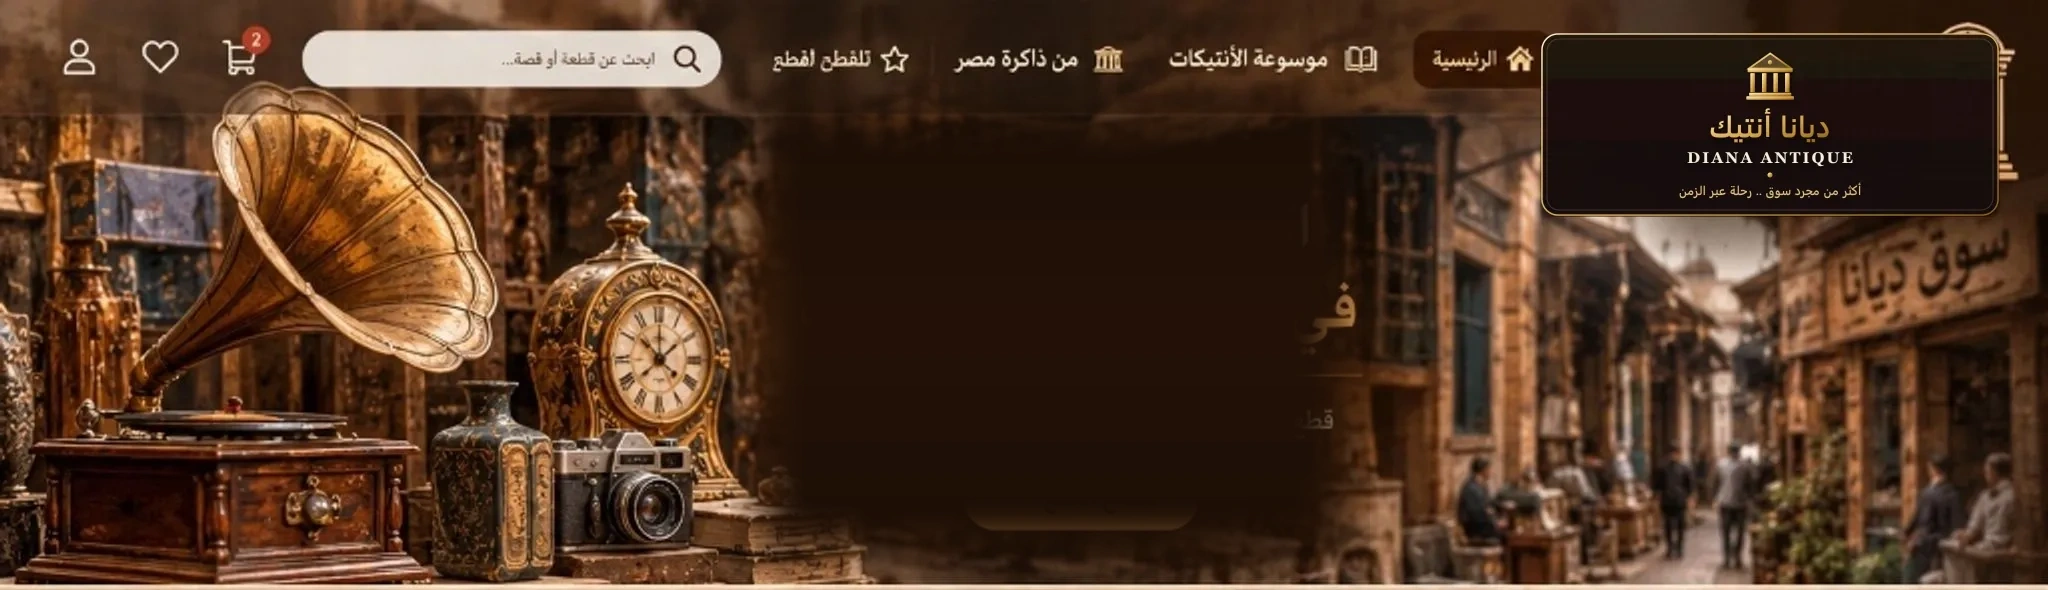
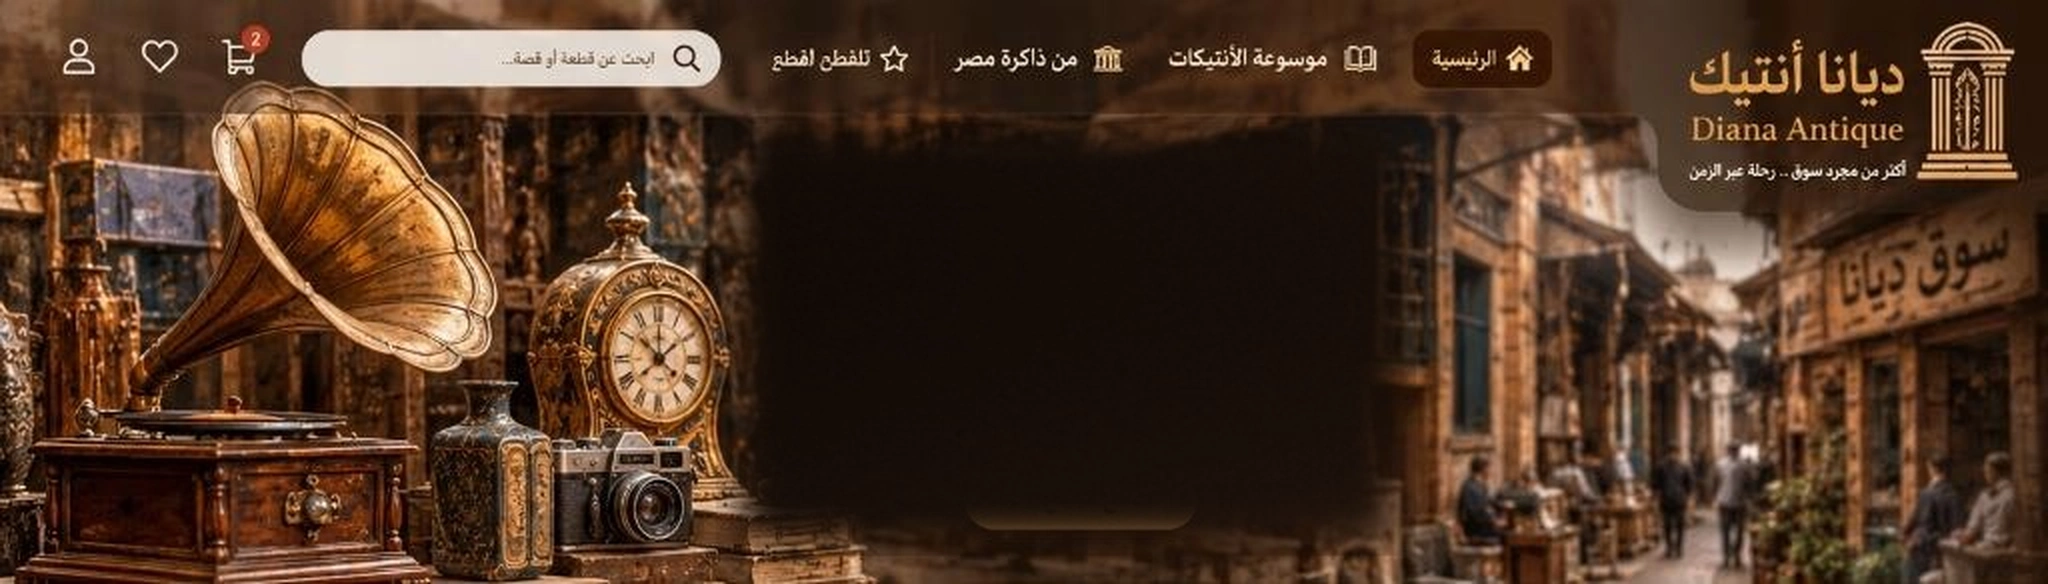
fix(hero): restore authentic clean hero background, typography, and clean button layout matching original design mockup

diff --git a/src/app/globals.css b/src/app/globals.css
@@ -52,23 +52,10 @@ body::before { content: ""; position: fixed; inset: 0; pointer-events: none; z-i
 .mobileMenuLinks a { display: grid; grid-template-columns: 52px 1fr; align-items: baseline; padding: 14px 0; border-bottom: 1px solid var(--line); font-family: Georgia, 'Times New Roman', serif; font-size: clamp(31px, 9vw, 56px); }
 .mobileMenuLinks a span { font: 10px Arial, sans-serif; color: var(--muted); letter-spacing: .14em; }
 
-.hero { min-height: 100svh; position: relative; overflow: hidden; display: flex; align-items: flex-end; padding: calc(var(--header-h) + 36px) clamp(20px, 6vw, 88px) 7vh; }
-.heroImage { position: absolute; inset: 0; }
-.heroImage img { object-fit: cover; object-position: 70% 3%; }
-.heroShade { position: absolute; inset: 0; background: linear-gradient(90deg, rgba(9,9,8,.96) 0%, rgba(9,9,8,.8) 38%, rgba(9,9,8,.2) 72%, transparent 88%), linear-gradient(0deg, rgba(9,9,8,.85) 0%, transparent 45%); }
-.heroContent { position: relative; z-index: 2; width: min(790px, 85%); }
-
-[dir="rtl"] .hero {
-  justify-content: flex-end;
-}
-.eyebrow { margin: 0 0 17px; font-size: 14px; letter-spacing: .28em; text-transform: uppercase; color: #c7c3bb; font-weight: 600; }
-.hero h1 { font-family: Georgia, 'Times New Roman', serif; font-size: clamp(60px, 9.1vw, 142px); font-weight: 400; letter-spacing: -.055em; line-height: .77; margin: 0 0 37px; }
-.hero h1 em { font-weight: 400; color: transparent; -webkit-text-stroke: 1px rgba(242,239,233,.8); }
-.heroActions { display: flex; align-items: center; gap: 24px; }
-.heroActions > span { font-size: 15px; text-transform: uppercase; letter-spacing: .22em; color: var(--muted); }
+/* Old hero classes disabled — replaced by .antiqueHeroInteractive in new Diana design */
+/* .hero .heroImage .heroShade .heroContent .heroActions .primaryButton .heroSidecopy — see line 5149+ */
 .primaryButton { min-height: 50px; border: 1px solid var(--ink); background: var(--ink); color: var(--bg); padding: 0 21px; display: inline-flex; align-items: center; justify-content: center; gap: 12px; text-transform: uppercase; letter-spacing: .14em; font-size: 14px; font-weight: 700; cursor: pointer; transition: background .22s, color .22s, transform .22s; }
 .primaryButton:hover { background: transparent; color: var(--ink); }
-.heroSidecopy { position: absolute; z-index: 2; right: 28px; bottom: 28px; writing-mode: vertical-rl; font-size: 13px; letter-spacing: .36em; color: rgba(242,239,233,.6); }
 
 .section { padding: 100px clamp(20px, 6vw, 88px); max-width: 1600px; margin: auto; }
 .sectionIntro { padding-top: 130px; padding-bottom: 130px; }
@@ -5149,7 +5136,8 @@ body::before { content: ""; position: fixed; inset: 0; pointer-events: none; z-i
 .antiqueHeroInteractive {
   position: relative;
   width: 100%;
-  min-height: clamp(540px, 68vh, 720px);
+  min-height: clamp(400px, 44vw, 600px);
+  max-height: 620px;
   display: flex;
   align-items: center;
   overflow: hidden;
@@ -5189,12 +5177,7 @@ body::before { content: ""; position: fixed; inset: 0; pointer-events: none; z-i
 
 /* Ambient Vignette Gradient: Center darkened for text readability, edges lighter to show collectibles */
 .heroAmbientOverlay {
-  position: absolute;
-  inset: 0;
-  background:
-    radial-gradient(ellipse 70% 100% at 50% 55%, rgba(14, 9, 6, 0.78) 0%, rgba(14, 9, 6, 0.55) 35%, rgba(14, 9, 6, 0.18) 70%, rgba(14, 9, 6, 0.05) 100%),
-    linear-gradient(to bottom, rgba(14, 9, 6, 0.3) 0%, rgba(14, 9, 6, 0.1) 30%, rgba(14, 9, 6, 0.5) 100%);
-  pointer-events: none;
+  display: none;
 }
 
 .heroContentContainer {
@@ -5239,23 +5222,23 @@ body::before { content: ""; position: fixed; inset: 0; pointer-events: none; z-i
 }
 
 .heroMainTitle {
-  font-family: var(--font-antique-heading), 'Amiri', 'Traditional Arabic', serif;
-  font-size: clamp(34px, 4.4vw, 56px);
+  font-family: var(--font-cairo), 'Cairo', 'Tajawal', sans-serif;
+  font-size: clamp(34px, 4.4vw, 54px);
   font-weight: 800;
   color: #ffffff;
-  line-height: 1.18;
+  line-height: 1.2;
   margin: 0;
-  text-shadow: 0 3px 20px rgba(0, 0, 0, 0.85);
+  text-shadow: 0 3px 16px rgba(0, 0, 0, 0.85);
   letter-spacing: -0.3px;
 }
 
 .heroSubTitle {
-  font-family: var(--font-antique-heading), 'Amiri', 'Traditional Arabic', serif;
-  font-size: clamp(22px, 2.6vw, 34px);
+  font-family: var(--font-cairo), 'Cairo', 'Tajawal', sans-serif;
+  font-size: clamp(22px, 2.8vw, 36px);
   font-weight: 700;
-  color: #dfbe76;
+  color: #deb068;
   line-height: 1.25;
-  margin: 8px 0 0;
+  margin: 6px 0 0;
   text-shadow: 0 2px 14px rgba(0, 0, 0, 0.8);
 }
 
@@ -5303,22 +5286,23 @@ body::before { content: ""; position: fixed; inset: 0; pointer-events: none; z-i
 .heroPrimaryBtn {
   display: inline-flex;
   align-items: center;
-  gap: 10px;
-  background: linear-gradient(135deg, #dfbe76 0%, #c59844 50%, #9a6d20 100%);
-  color: #120e0a;
+  gap: 8px;
+  background: #deb068;
+  color: #1a0f07;
+  font-family: var(--font-cairo), 'Cairo', sans-serif;
   font-weight: 700;
-  font-size: 15.5px;
-  padding: 12px 28px;
-  border-radius: 999px;
+  font-size: 16px;
+  padding: 10px 32px;
+  border-radius: 9999px;
   text-decoration: none;
-  box-shadow: 0 6px 20px rgba(197, 152, 68, 0.35);
-  transition: all 0.25s ease;
+  box-shadow: 0 4px 18px rgba(222, 176, 104, 0.45);
+  transition: all 0.22s ease;
 }
 
 .heroPrimaryBtn:hover {
+  background: #e5be7a;
   transform: translateY(-2px);
-  box-shadow: 0 10px 28px rgba(197, 152, 68, 0.5);
-  background: linear-gradient(135deg, #ffebb0 0%, #dfbe76 50%, #b3802b 100%);
+  box-shadow: 0 8px 24px rgba(222, 176, 104, 0.65);
 }
 
 .heroSecondaryBtn {

diff --git a/src/components/Hero.tsx b/src/components/Hero.tsx
@@ -46,12 +46,9 @@ const HERO_SLIDES: HeroSlide[] = [
     subtitleEn: "In The World Of Antiques & Fine Relics",
     descAr: "قطع مختارة بعناية.. مع قصص وتاريخ يروي الماضي",
     descEn: "Meticulously curated relics, each carrying verified provenance and a timeless story.",
-    ctaTextAr: "تصفح المقتنيات",
+    ctaTextAr: "تصفح القطع",
     ctaTextEn: "Browse Collectibles",
-    ctaLink: "/shop",
-    secondaryLink: "/about",
-    secondaryTextAr: "قصة ديانا أنتيك",
-    secondaryTextEn: "Our Story"
+    ctaLink: "/shop"
   },
   {
     id: "souq-diana-heritage",
@@ -129,12 +126,6 @@ export function Hero() {
       {/* 2. Interactive HTML Content Layer (Floating on top of image) */}
       <div className="heroContentContainer">
         <div className="heroTextCard">
-          {/* Eyebrow badge */}
-          <div className="heroEyebrow">
-            <Sparkles size={14} className="heroGoldSparkle" />
-            <span>{isAr ? activeSlide.eyebrowAr : activeSlide.eyebrowEn}</span>
-          </div>
-
           {/* Main Title & Subtitle */}
           <h1 className="heroMainTitle">{isAr ? activeSlide.titleAr : activeSlide.titleEn}</h1>
           <h2 className="heroSubTitle">{isAr ? activeSlide.subtitleAr : activeSlide.subtitleEn}</h2>
@@ -149,34 +140,12 @@ export function Hero() {
           {/* Rich Description */}
           <p className="heroDescription">{isAr ? activeSlide.descAr : activeSlide.descEn}</p>
 
-          {/* Action CTAs */}
+          {/* Action CTA Button */}
           <div className="heroActionsGroup">
             <Link href={activeSlide.ctaLink} className="heroPrimaryBtn">
               <span>{isAr ? activeSlide.ctaTextAr : activeSlide.ctaTextEn}</span>
-              <ArrowIcon size={16} className="btnArrow" />
+              <span className="btnArrow" aria-hidden="true">←</span>
             </Link>
-
-            {activeSlide.secondaryLink && (
-              <Link href={activeSlide.secondaryLink} className="heroSecondaryBtn">
-                <span>{isAr ? activeSlide.secondaryTextAr : activeSlide.secondaryTextEn}</span>
-              </Link>
-            )}
-          </div>
-
-          {/* Live Guarantees Pill */}
-          <div className="heroTrustBadgesRow">
-            <span className="trustPill">
-              <ShieldCheck size={13} className="trustIcon" />
-              <span>{isAr ? "معاينة حية عند الاستلام" : "Live Inspection On Delivery"}</span>
-            </span>
-            <span className="trustPill">
-              <Award size={13} className="trustIcon" />
-              <span>{isAr ? "توثيق تاريخي معتمد" : "Verified Provenance"}</span>
-            </span>
-            <span className="trustPill">
-              <Truck size={13} className="trustIcon" />
-              <span>{isAr ? "شحن مصفح مؤمن" : "White-Glove Shipping"}</span>
-            </span>
           </div>
         </div>
       </div>

diff --git a/src/app/layout.tsx b/src/app/layout.tsx
@@ -2,6 +2,14 @@ import type { Metadata } from "next";
 import "./globals.css";
 import { StoreProvider } from "@/components/StoreProvider";
 import { SiteChrome } from "@/components/SiteChrome";
+import { Cairo } from "next/font/google";
+
+const cairo = Cairo({
+  subsets: ["arabic", "latin"],
+  weight: ["400", "600", "700", "800", "900"],
+  variable: "--font-cairo",
+  display: "swap",
+});
 
 export const metadata: Metadata = {
   title: "ديوان الأنتيكات – سوق وموسوعة المقتنيات التاريخية والتحف",
@@ -10,7 +18,7 @@ export const metadata: Metadata = {
 
 export default function RootLayout({ children }: Readonly<{ children: React.ReactNode }>) {
   return (
-    <html lang="ar" dir="rtl" data-theme="dark">
+    <html lang="ar" dir="rtl" data-theme="dark" className={cairo.variable}>
       <body>
         <StoreProvider>
           <SiteChrome>{children}</SiteChrome>
